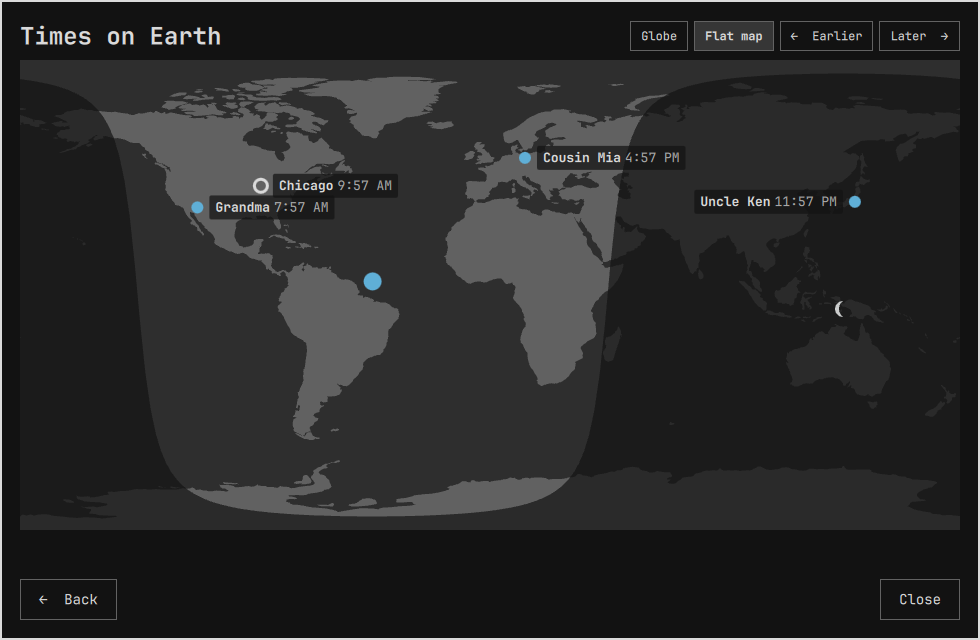
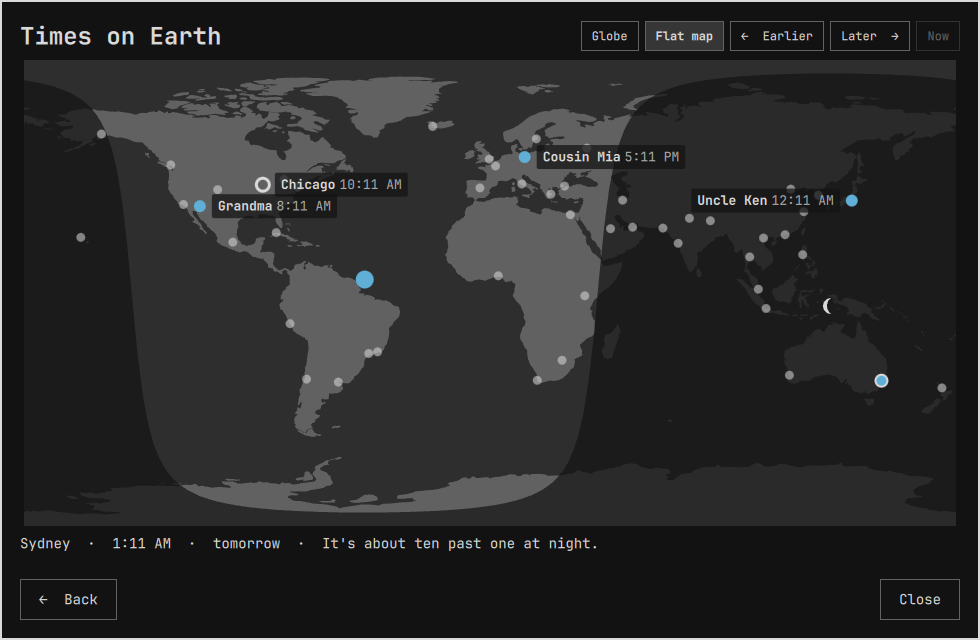
Hold the write, put the buttons where the clock is
The saved-entry guard had a five second timer on it: if the shell had not
handed the config back by then, the plugin went back to showing the shell's
copy. That is the "worked at first and then stopped" — the first edit showed,
reverted, and every edit after it was built on a config that had never heard
of the first. There is no timer now. A write the shell accepted is real, so
the plugin holds it until the shell either agrees or reports something else,
which is shell.json having been changed from somewhere else while the write
was in flight.

Earlier and Later are under the face on the bands that have one; an anchor
cannot cross into another item's parent, so the row is placed by hand. The
sky gives back the height the row takes, so the cards below keep their room.
Back to now is just Now, and it is always there rather than appearing when
the sun moves and shoving the two buttons beside it along.

Find home sits between the two buttons that turn the globe.

The flat map carries the same places as the globe now: the fifty well-known
cities as dots to tap, with a line under the map saying the time at the one
you tapped. Both views ask for the offsets when the spot list fills in, which
is after the screen opens, so the map no longer sits on "finding the time".

Claude-Session: https://claude.ai/code/session_01NM7Hj4ciYhKm8Aio5Eie8D

diff --git a/Overlay.qml b/Overlay.qml
@@ -113,6 +113,17 @@ Item {
   readonly property var popular: Model.popularSpots(cities)
   readonly property var spots: clock ? Model.globeSpotList(clock.homeName, clock.homeCity, clock.people, popular) : []
   readonly property var picked: pickedSpot >= 0 && pickedSpot < spots.length ? spots[pickedSpot] : null
+  // The spots the flat map draws as plain dots: everything that is not home
+  // or one of the people, since those already have a named marker there.
+  readonly property var mapSpots: {
+    var out = []
+    if (!showMap) return out
+    for (var i = 0; i < spots.length; i++) {
+      if (spots[i].kind === "home" || spots[i].kind === "person") continue
+      out.push({ at: i, lat: spots[i].lat, lon: spots[i].lon })
+    }
+    return out
+  }
   readonly property var pickedOffset: !picked || !clock ? null
     : (picked.kind === "home" ? { offsetSeconds: clock.homeOffsetSeconds } : (clock.offsets ? clock.offsets[picked.zone] : null))
   readonly property var pickedView: picked && clock
@@ -122,6 +133,10 @@ Item {
   // Opened before the city list or the home zone has loaded, the globe has
   // no home to centre on; when home turns up it goes there and picks it.
   onSpotsChanged: {
+    // The list fills in after the city file and the home zone land, which is
+    // usually after the screen is already open, so this is where both views
+    // ask for the offsets they are about to need.
+    if (showEarth && spots.length > 0) askForSpotZones()
     if (!showGlobe || globeAtHome || spots.length === 0 || spots[0].kind !== "home") return
     var wasDragging = globeDragging
     globeDragging = true
@@ -151,6 +166,7 @@ Item {
     earthMode = String(mode) === "map" && hasMap ? "map" : "globe"
     showEarth = true
     if (earthMode === "globe") settleGlobe()
+    else askForSpotZones()
     Qt.callLater(function() { keyCatcher.forceActiveFocus() })
   }
 
@@ -159,6 +175,13 @@ Item {
     if (next === earthMode) return
     earthMode = next
     if (next === "globe") settleGlobe()
+    else askForSpotZones()
+  }
+
+  // The flat map can be asked about the same places as the globe, so it needs
+  // their offsets too.
+  function askForSpotZones() {
+    if (clock && typeof clock.requestZones === "function") clock.requestZones(spotZones())
   }
 
   function settleGlobe() {
@@ -649,6 +672,9 @@ Item {
     property var night: []
     property var sun: null
     property var markers: []
+    // The well-known cities, as indexes into root.spots so a tap can pick one
+    // the same way tapping the globe does.
+    property var spots: []
     clip: true
     readonly property string landPath: Model.landPath(land, width, height)
     readonly property string nightPath: Model.pointsPath(night, width, height)
@@ -708,6 +734,40 @@ Item {
       y: map.moonPos[1] - height / 2
       Behavior on x { NumberAnimation { duration: 420; easing.type: Easing.OutCubic } }
       Behavior on y { NumberAnimation { duration: 420; easing.type: Easing.OutCubic } }
+    }
+
+    // The cities behind the named markers: small, plain, and tappable.
+    Repeater {
+      model: map.spots.length
+      Item {
+        id: spotDot
+        required property int index
+        readonly property var spot: map.spots[index]
+        readonly property bool chosen: root.pickedSpot === spot.at
+        readonly property var pos: Model.mapPoint(spot.lon, spot.lat, map.width, map.height)
+        x: pos[0]
+        y: pos[1]
+
+        Rectangle {
+          anchors.centerIn: parent
+          width: Style.space(spotDot.chosen ? 14 : 9)
+          height: width
+          radius: width / 2
+          color: spotDot.chosen ? root.sunColor : Util.alpha(root.foreground, 0.55)
+          border.width: spotDot.chosen ? Math.max(2, Style.space(2)) : 0
+          border.color: root.foreground
+          Behavior on width { NumberAnimation { duration: 140 } }
+        }
+
+        MouseArea {
+          anchors.centerIn: parent
+          width: Style.space(28)
+          height: width
+          hoverEnabled: true
+          cursorShape: Qt.PointingHandCursor
+          onClicked: root.pickSpot(spotDot.spot.at)
+        }
+      }
     }
 
     Repeater {
@@ -1184,9 +1244,9 @@ Item {
     ActionButton { compact: true; text: "Later  →"; onClicked: if (root.clock) root.clock.scrub(60) }
     ActionButton {
       compact: true
-      primary: true
-      visible: root.scrubbing
-      text: "Back to now"
+      primary: root.scrubbing
+      enabled: root.scrubbing
+      text: "Now"
       onClicked: if (root.clock) root.clock.resetScrub()
     }
   }
@@ -1331,7 +1391,7 @@ Item {
         anchors.leftMargin: card.contentLeftInset
 
         readonly property int gap: Style.spacing.lg
-        readonly property int homeSkyHeight: Math.round(root.cardHeight * (root.hasFace ? 0.27 : 0.25))
+        readonly property int homeSkyHeight: Math.round(root.cardHeight * (root.hasFace ? 0.235 : 0.22))
 
         // ---- the clock
         Item {
@@ -1409,11 +1469,15 @@ Item {
 
           // Moving the sun belongs to the sky, so the two buttons sit under
           // it rather than in the navigation at the foot of the card.
+          // Under the clock, which means under the face when there is one:
+          // the buttons move the time, and the face is the time.
           SunRow {
             id: sunRow
             anchors.top: homeArea.bottom
             anchors.topMargin: Style.spacing.md
-            anchors.left: parent.left
+            x: homeFace.visible
+              ? Math.max(0, Math.round(homeArea.x + homeFace.x + homeFace.width / 2 - width / 2))
+              : 0
           }
 
           // One card per person, side by side.
@@ -1628,12 +1692,48 @@ Item {
             id: worldMap
             anchors.top: parent.top
             anchors.horizontalCenter: parent.horizontalCenter
-            width: Math.min(parent.width, Math.floor(parent.height * 2))
+            width: Math.min(parent.width, Math.floor((parent.height - mapPick.height - content.gap) * 2))
             height: Math.round(width / 2)
             land: root.land
             night: root.night
             sun: root.sun
             markers: root.markers
+            spots: root.mapSpots
+          }
+
+          // What was tapped, said the same way the globe says it.
+          Text {
+            id: mapPick
+            anchors.top: worldMap.bottom
+            anchors.topMargin: content.gap
+            anchors.left: parent.left
+            anchors.right: parent.right
+            textFormat: Text.PlainText
+            // Short enough for one line: the place, the digits when the band
+            // has them, and the time in words. The globe has the room for the
+            // whole sentence; the map does not.
+            text: !root.pickedView ? "Tap a place to hear the time there."
+              : root.pickedView.name
+                + (root.pickedView.timeText === "" ? "" : "  ·  " + root.pickedView.timeText)
+                + (root.pickedView.dayLabel === "" || root.pickedView.dayLabel === "today"
+                  ? "" : "  ·  " + root.pickedView.dayLabel)
+                + (root.pickedView.timeWords === "" ? "" : "  ·  " + root.pickedView.timeWords)
+            color: root.pickedView ? root.foreground : root.quiet
+            font.family: root.fontFamily
+            font.pixelSize: Style.font.title
+            // Two lines whatever it says, so tapping around the map does not
+            // shuffle the map itself up and down.
+            height: Math.ceil(pickMetrics.height * 2)
+            wrapMode: Text.WordWrap
+            maximumLineCount: 2
+            elide: Text.ElideRight
+            verticalAlignment: Text.AlignTop
+
+            FontMetrics {
+              id: pickMetrics
+              font.family: root.fontFamily
+              font.pixelSize: Style.font.title
+            }
           }
         }
 
@@ -2169,8 +2269,7 @@ Item {
           // buttons and Find home, which belongs to the globe rather than to
           // the header the flat map shares.
           readonly property int globeSize: Math.max(Style.space(200),
-            Math.min(height - spinRow.height - findHome.height - Style.spacing.sm - content.gap,
-              Math.round(width * 0.54)))
+            Math.min(height - spinRow.height - content.gap, Math.round(width * 0.54)))
 
           Globe {
             id: theGlobe
@@ -2199,19 +2298,16 @@ Item {
             anchors.horizontalCenter: theGlobe.horizontalCenter
             anchors.top: theGlobe.bottom
             anchors.topMargin: Style.spacing.sm
-            spacing: Style.spacing.xxl * 2
+            spacing: Style.spacing.xl
             TurnButton { glyph: "‹"; caption: "turn it"; delta: -40; spins: true }
+            ActionButton {
+              id: findHome
+              anchors.verticalCenter: parent.verticalCenter
+              compact: true
+              text: "Find home"
+              onClicked: root.centreGlobeOnHome()
+            }
             TurnButton { glyph: "›"; caption: "turn it"; delta: 40; spins: true }
-          }
-
-          ActionButton {
-            id: findHome
-            anchors.horizontalCenter: spinRow.horizontalCenter
-            anchors.top: spinRow.bottom
-            anchors.topMargin: Style.spacing.sm
-            compact: true
-            text: "Find home"
-            onClicked: root.centreGlobeOnHome()
           }
 
           Column {

diff --git a/Service.qml b/Service.qml
@@ -37,29 +37,25 @@ Item {
   // that stale entry and put them back. So the plugin believes its own write
   // until the shell agrees with it.
   property var pendingEntry: null
+  // The shell's entry as it read when the write went out. The shell hands out
+  // a fresh config object on every change anywhere in the bar, so "it changed"
+  // is not the question; "did our entry change" is.
+  property string pendingBaseline: ""
 
   function noteSaved(entry) {
     pendingEntry = entry && typeof entry === "object" ? entry : null
-    if (pendingEntry) pendingWatchdog.restart()
+    pendingBaseline = pendingEntry ? JSON.stringify(liveConfig) : ""
   }
 
-  onLiveConfigChanged: if (pendingEntry && Model.settingsLanded(liveConfig, pendingEntry)) {
-    pendingEntry = null
-    pendingWatchdog.stop()
-  }
-
-  // A write that never comes back (the shell refused it, the file is not
-  // writable) must not leave the screens showing something that was never
-  // saved. After a few seconds the plugin goes back to what the shell says.
-  Timer {
-    id: pendingWatchdog
-    interval: 5000
-    repeat: false
-    onTriggered: {
-      if (!root.pendingEntry) return
-      console.warn("kids-clock: a saved setting did not come back from the shell; showing what it says instead")
-      root.pendingEntry = null
-    }
+  // Let go when the shell agrees, and also when it says something else
+  // entirely, which means shell.json was edited from somewhere else while the
+  // write was in flight and that edit is the newer truth. There is no timer:
+  // a write the shell has accepted is real whether or not it has come back
+  // yet, and giving up on it would put the removed person back on the screen.
+  onLiveConfigChanged: {
+    if (!pendingEntry) return
+    if (Model.settingsLanded(liveConfig, pendingEntry)) { pendingEntry = null; pendingBaseline = ""; return }
+    if (JSON.stringify(liveConfig) !== pendingBaseline) { pendingEntry = null; pendingBaseline = "" }
   }
 
   readonly property var config: pendingEntry ? pendingEntry : liveConfig

diff --git a/README.md b/README.md
@@ -71,9 +71,13 @@ the sun here too, and the night sweeps round the globe as it goes.
 ### The flat map
 
 On the Navigator band, Flat map lays the world out flat with the
-night side shaded. The top of the screen does not change when the view does:
-the same title, the same switch, the same Earlier and Later. Only the world
-below it is drawn differently. The shade is the real one for the shown instant, worked
+night side shaded. It carries the same places as the globe — home, the people
+and the fifty well-known cities — as dots to tap, and a line under the map
+says what time it is at the one you tapped.
+
+The top of the screen does not change when the view does: the same title, the
+same switch, the same Earlier, Later and Now. Only the world below it is drawn
+differently. The shade is the real one for the shown instant, worked
 out from the sun's declination and Greenwich solar noon, so it leans towards
 one pole in December and the other in June, and it sweeps west as Earlier
 and Later move the sun. A sun marks where the sun is straight overhead, a moon
@@ -210,10 +214,9 @@ the field they finish.
 
 | On the screen | Does |
 |---|---|
-| Earlier, Later | move the sun an hour, under the sky on the clock and at the top of Times on Earth |
-| Back to now | appears once the sun has moved, and puts it back |
+| Earlier, Later, Now | move the sun an hour, and put it back. On the clock they sit under the face, which is the thing they move; at the top of Times on Earth otherwise. All three are always there, so the row never shifts under a hand |
 | Globe, Flat map | the two ways of looking at Times on Earth (the flat map is navigator) |
-| Find home | turns the globe back to home; it sits under the globe, with the buttons that turn it |
+| Find home | turns the globe back to home; it sits between the two buttons that turn it |
 | Set the clock, Read the clock | the two rounds of the game |
 | Start again, Another one | put the hands back where they began, and take a new round |
 | Next, Save | finish the question the field is asking |
